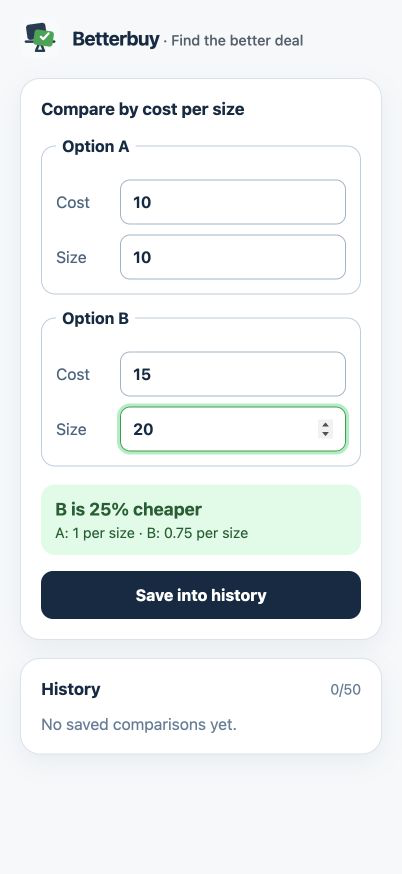
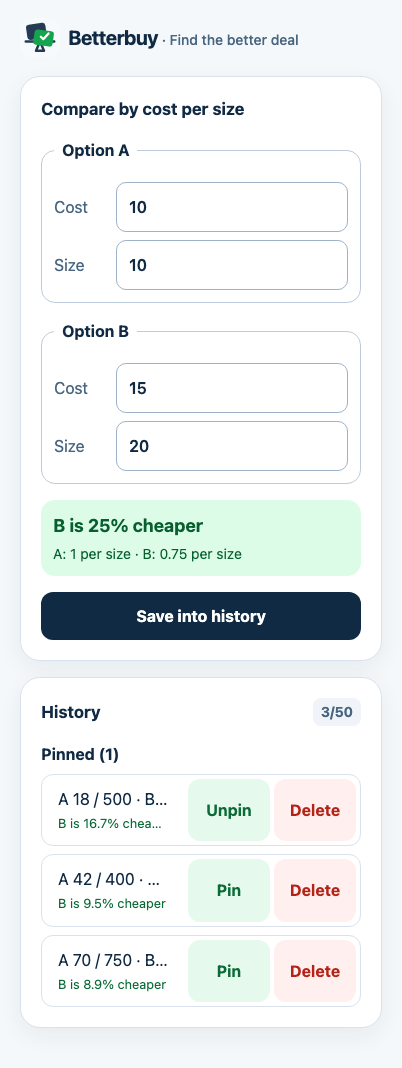
docs: refresh README app screenshot

diff --git a/README.md b/README.md
@@ -4,7 +4,7 @@
 
 Compare two offers by cost per comparable size and immediately see which one gives you more for your money. Betterbuy is private, local-first, and works offline.
 
-![Betterbuy showing a completed comparison where Option B is 25% cheaper](docs/images/betterbuy-iphone-17-pro.png)
+![Betterbuy showing a completed comparison with a pinned saved deal and recent history](docs/images/betterbuy-iphone-17-pro.png)
 
 ## Install Betterbuy on iPhone
 
